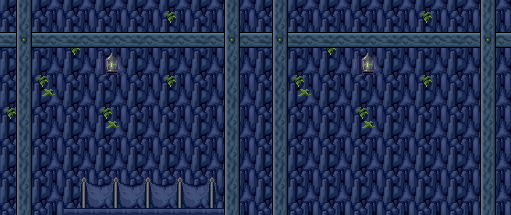
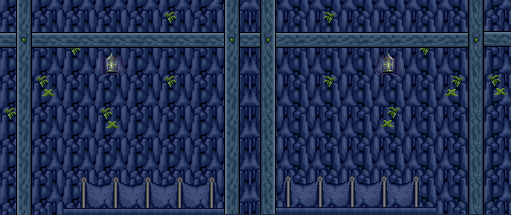
Completado la data del nivel de caverna.

Changed region(s): [[0.4403, 0.0, 1.0, 1.0]]

diff --git a/src/utilidades/Archivos.java b/src/utilidades/Archivos.java
@@ -33,7 +33,7 @@ public class Archivos {
     //Funcion que devuelve un arrayList con los goombas
     //El nivel de verde en el pixel de bitmap indica que hay un goomba
     public static ArrayList<Goomba> getGoombas(){
-        BufferedImage img = cargarImagen(ImagenURL.INFO_NIVEL_UNO);
+        BufferedImage img = cargarImagen(ImagenURL.INFO_NIVEL_CAVERNA);
         ArrayList<Goomba> lista = new ArrayList();
         for (int j = 0; j < img.getHeight(); ++j)
             for (int i = 0; i < img.getWidth(); ++i){
@@ -49,7 +49,7 @@ public class Archivos {
     // El valor del color rojo de cada pixel del mapa de bits representa un bloque del nivel
 
     public static int[][] informacionDelNivel() {
-        BufferedImage img = cargarImagen(ImagenURL.INFO_NIVEL_UNO);
+        BufferedImage img = cargarImagen(ImagenURL.INFO_NIVEL_CAVERNA);
         int[][] infoNivel = new int[img.getHeight()][img.getWidth()];
 
         for (int j = 0; j < img.getHeight(); ++j)

diff --git a/src/niveles/ManejaNiveles.java b/src/niveles/ManejaNiveles.java
@@ -23,7 +23,7 @@ public class ManejaNiveles {
     }
 
     public void cargarSpritesNivel() {
-        BufferedImage img = cargarImagen(ImagenURL.NIVEL_SUPERFICIE);
+        BufferedImage img = cargarImagen(ImagenURL.NIVEL_CAVERNA);
         nivelSprites = new BufferedImage[16*11];
         for (int j = 0; j < 11; j++) {
             for (int i = 0; i < 16; i++) {

diff --git a/src/main/Panel.java b/src/main/Panel.java
@@ -42,7 +42,7 @@ public class Panel extends JPanel {
     }
 
     private void cargarImagenes() {
-        fondo = cargarImagen(ImagenURL.FONDO);
+        fondo = cargarImagen(ImagenURL.FONDO_CAVERNA);
     }
 
     // Método que se encarga de darle un tamaño al panel
